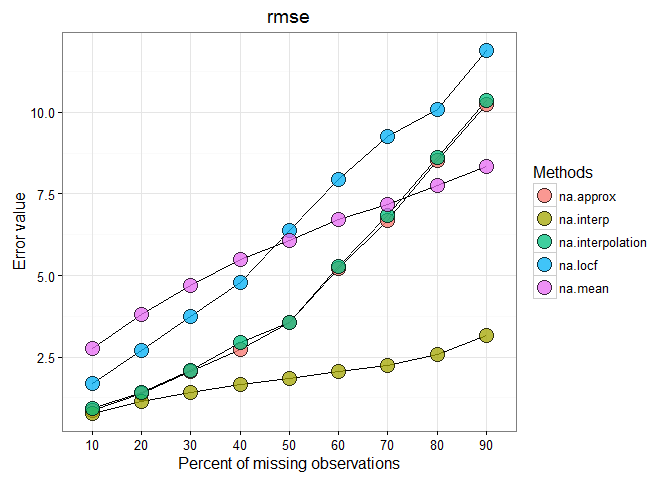
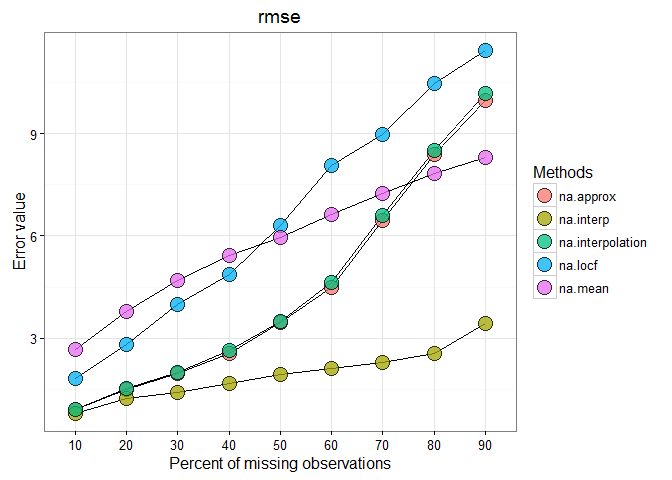
resubmit to CRAN

diff --git a/README.html b/README.html
@@ -127,7 +127,7 @@ $(document).ready(function () {
 <h4><em>Neeraj Bokde, <a href="mailto:neerajdhanraj@gmail.com">neerajdhanraj@gmail.com</a>, Marcus W. Beck, <a href="mailto:beck.marcus@epa.gov">beck.marcus@epa.gov</a></em></h4>
 <p><a href="https://travis-ci.org/fawda123/imputeTestbench"><img src="https://travis-ci.org/fawda123/imputeTestbench.svg?branch=master" alt="Travis-CI Build Status" /></a></p>
 <p><a href="https://ci.appveyor.com/project/fawda123/imputeTestbench"><img src="https://ci.appveyor.com/api/projects/status/github/fawda123/imputeTestbench?branch=master&amp;svg=true" alt="AppVeyor Build Status" /></a></p>
-<p><a href="https://cran.r-project.org/web/packages/imputeTestbench/index.html"><img src="http://cranlogs.r-pkg.org/badges/grand-total/imputeTestbench" alt="Downloads from the RStudio CRAN mirror" /></a></p>
+<p><a href="https://CRAN.R-project.org/package=imputeTestbench"><img src="http://cranlogs.r-pkg.org/badges/grand-total/imputeTestbench" alt="Downloads from the RStudio CRAN mirror" /></a></p>
 <p>This is the development repository for the imputeTestbench package. This package provides a testbench for comparing imputation methods for missing data in univariate time series.</p>
 <p>The development version of this package can be installed from Github:</p>
 <pre class="r"><code>install.packages(&#39;devtools&#39;)
@@ -149,24 +149,24 @@ a</code></pre>
 ## [1] 10 20 30 40 50 60 70 80 90
 ## 
 ## $na.approx
-## [1]  0.8758017  1.3884222  2.0637862  2.7264405  3.5484296  5.2247580
-## [7]  6.6919063  8.5251748 10.2467772
+## [1] 0.901363 1.482835 1.958872 2.561620 3.469172 4.475716 6.442243 8.398182
+## [9] 9.978482
 ## 
 ## $na.interp
-## [1] 0.7829411 1.1349737 1.4107251 1.6532467 1.8382651 2.0613671 2.2514525
-## [8] 2.5821119 3.1625840
+## [1] 0.8001211 1.2240711 1.4138565 1.6581240 1.9295977 2.0984056 2.2763186
+## [8] 2.5622631 3.4401437
 ## 
 ## $na.interpolation
-## [1]  0.9264386  1.4037472  2.0772274  2.9411888  3.5745095  5.2742354
-## [7]  6.8345494  8.6221304 10.3547366
+## [1]  0.9089811  1.5266646  2.0002243  2.6406035  3.4855723  4.6469917
+## [7]  6.5879328  8.4999919 10.1895907
 ## 
 ## $na.locf
-## [1]  1.678392  2.711533  3.756034  4.781117  6.367100  7.958009  9.274554
-## [8] 10.077474 11.891015
+## [1]  1.821598  2.800376  3.981163  4.881498  6.313571  8.063412  8.970904
+## [8] 10.464801 11.432153
 ## 
 ## $na.mean
-## [1] 2.755701 3.807212 4.694296 5.493993 6.073467 6.710091 7.168344 7.770900
-## [9] 8.331260</code></pre>
+## [1] 2.654795 3.788465 4.684407 5.436173 5.943522 6.615894 7.252700 7.840248
+## [9] 8.306318</code></pre>
 <pre class="r"><code>plot_errors(a, plotType = &#39;line&#39;)</code></pre>
 <p><img src="README_files/figure-html/unnamed-chunk-3-1.png" /><!-- --></p>
 </div>

diff --git a/README.md b/README.md
@@ -7,7 +7,7 @@
 
 [![AppVeyor Build Status](https://ci.appveyor.com/api/projects/status/github/fawda123/imputeTestbench?branch=master&svg=true)](https://ci.appveyor.com/project/fawda123/imputeTestbench)
 
-[![Downloads from the RStudio CRAN mirror](http://cranlogs.r-pkg.org/badges/grand-total/imputeTestbench)](https://cran.r-project.org/web/packages/imputeTestbench/index.html)
+[![Downloads from the RStudio CRAN mirror](http://cranlogs.r-pkg.org/badges/grand-total/imputeTestbench)](https://CRAN.R-project.org/package=imputeTestbench)
 
 
 
@@ -48,24 +48,24 @@ a
 ## [1] 10 20 30 40 50 60 70 80 90
 ## 
 ## $na.approx
-## [1]  0.8758017  1.3884222  2.0637862  2.7264405  3.5484296  5.2247580
-## [7]  6.6919063  8.5251748 10.2467772
+## [1] 0.901363 1.482835 1.958872 2.561620 3.469172 4.475716 6.442243 8.398182
+## [9] 9.978482
 ## 
 ## $na.interp
-## [1] 0.7829411 1.1349737 1.4107251 1.6532467 1.8382651 2.0613671 2.2514525
-## [8] 2.5821119 3.1625840
+## [1] 0.8001211 1.2240711 1.4138565 1.6581240 1.9295977 2.0984056 2.2763186
+## [8] 2.5622631 3.4401437
 ## 
 ## $na.interpolation
-## [1]  0.9264386  1.4037472  2.0772274  2.9411888  3.5745095  5.2742354
-## [7]  6.8345494  8.6221304 10.3547366
+## [1]  0.9089811  1.5266646  2.0002243  2.6406035  3.4855723  4.6469917
+## [7]  6.5879328  8.4999919 10.1895907
 ## 
 ## $na.locf
-## [1]  1.678392  2.711533  3.756034  4.781117  6.367100  7.958009  9.274554
-## [8] 10.077474 11.891015
+## [1]  1.821598  2.800376  3.981163  4.881498  6.313571  8.063412  8.970904
+## [8] 10.464801 11.432153
 ## 
 ## $na.mean
-## [1] 2.755701 3.807212 4.694296 5.493993 6.073467 6.710091 7.168344 7.770900
-## [9] 8.331260
+## [1] 2.654795 3.788465 4.684407 5.436173 5.943522 6.615894 7.252700 7.840248
+## [9] 8.306318
 ```
 
 ```r

diff --git a/cran-comments.md b/cran-comments.md
@@ -1,6 +1,6 @@
 ## Resubmission 
 
-This is a resubmission for a version update.  
+This is a resubmission for a version update. We have also changed the package title to title case and fixed the CRAN package link in README.md to canonical form.  
 
 ## Test environments
 
